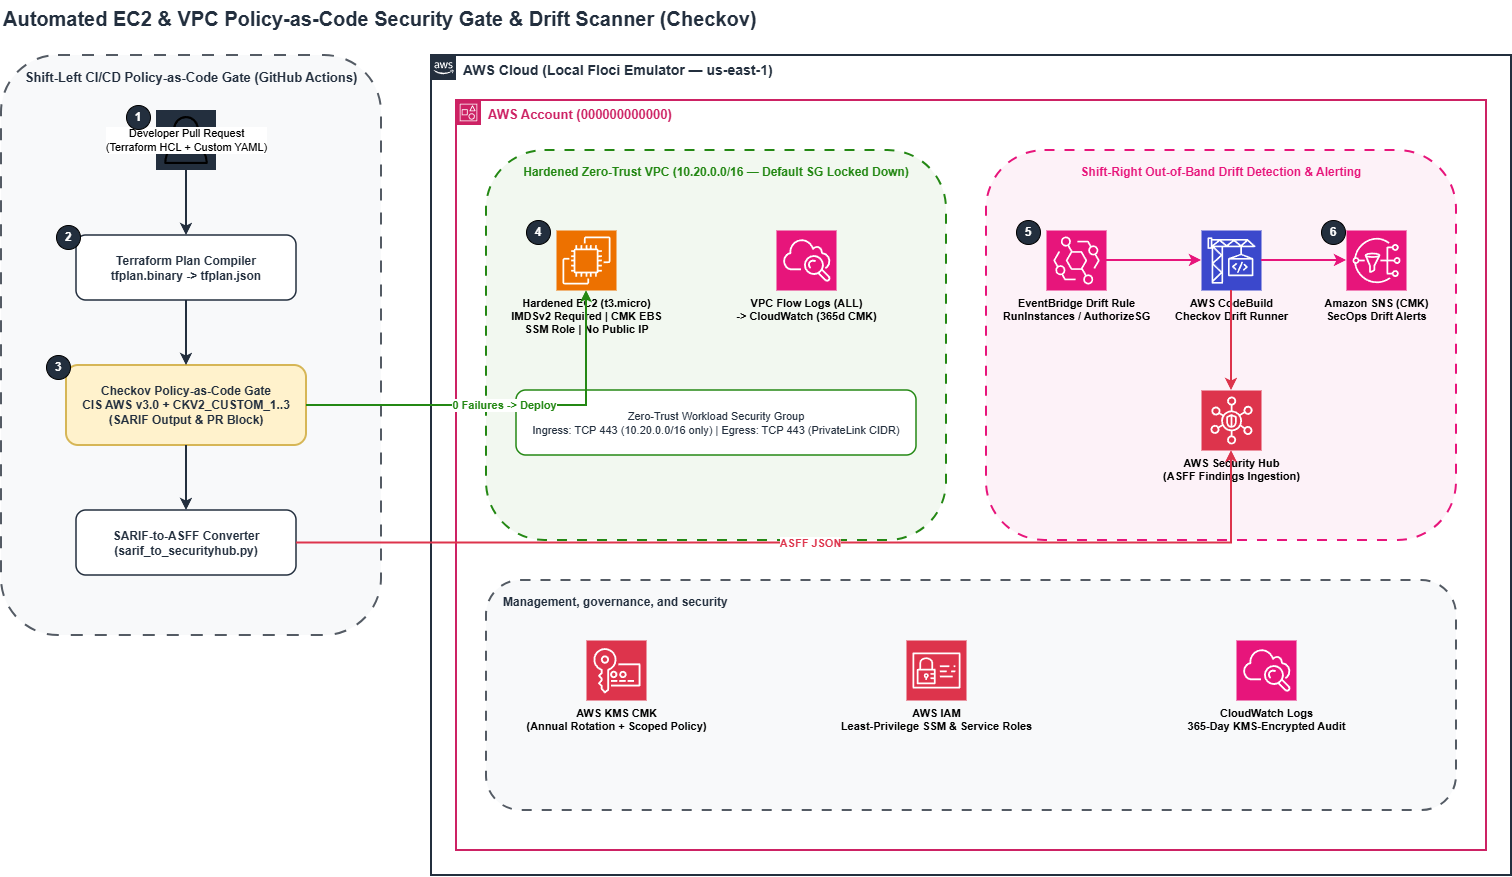
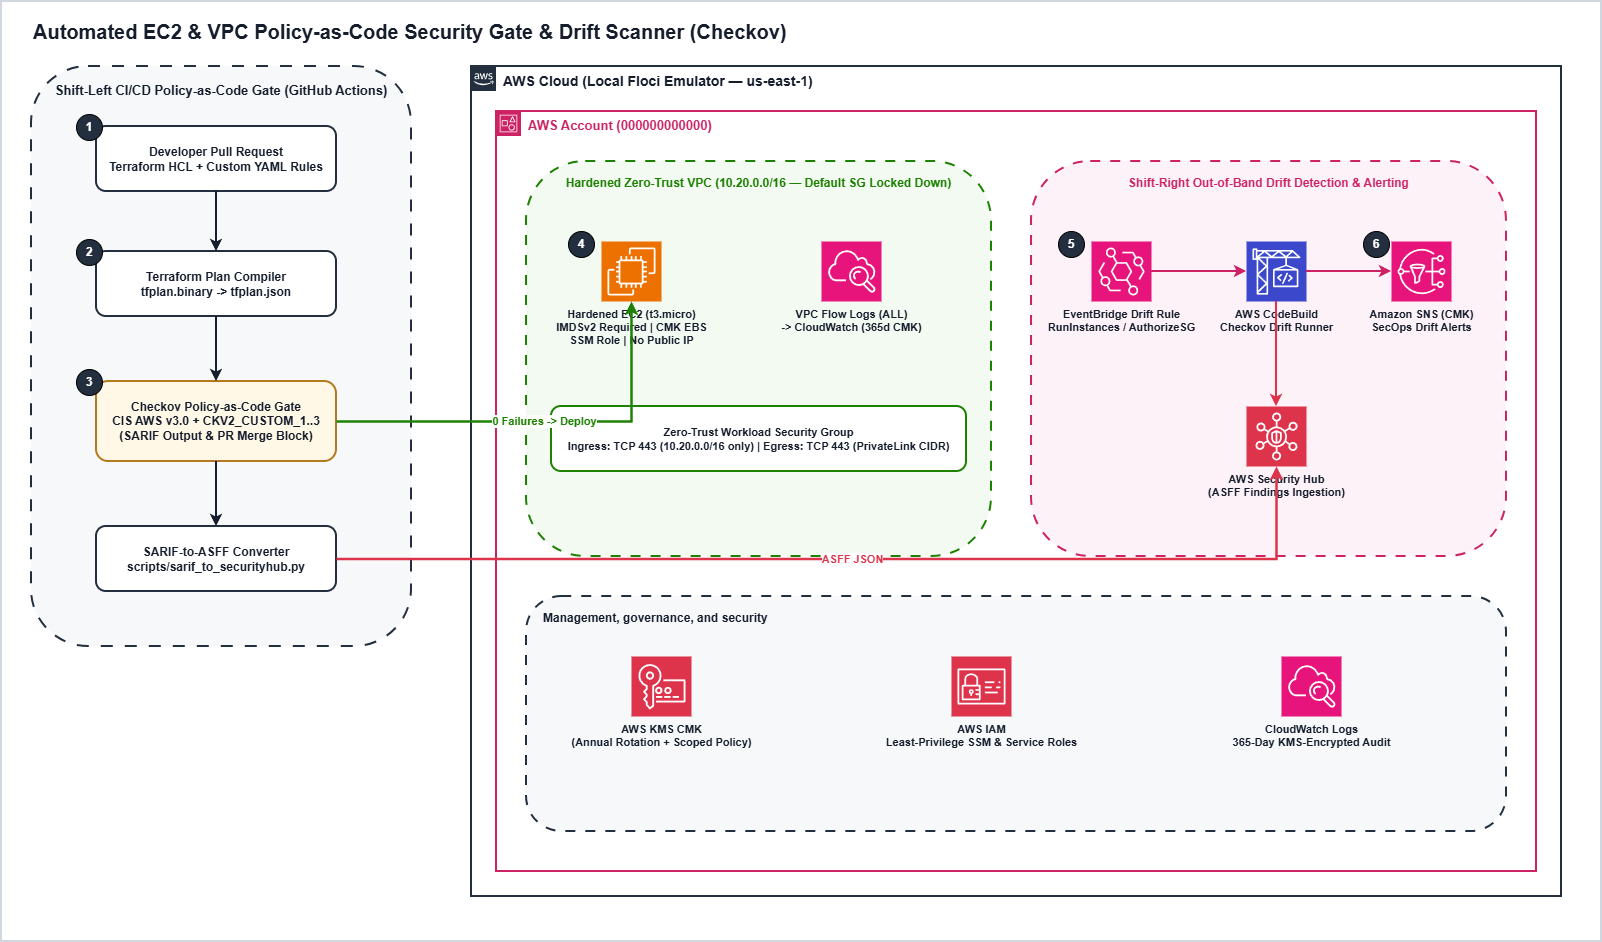
added lesson learned

diff --git a/README.md b/README.md
@@ -61,3 +61,23 @@ ec2-vpc-policy-gate/
 │   └── sarif_to_securityhub.py             # Converts Checkov SARIF to ASFF JSON & imports to Security Hub / SNS
 ├── architecture.png                        # Exported AWS reference architecture diagram
 └── README.md
+
+---
+
+## Troubleshooting
+
+1. **KMS Key Policy Flagged by Generic IAM Rules (`CKV_AWS_356`, `CKV_AWS_111`, `CKV_AWS_109`):** Split `kms.tf` into three least-privilege statements separated by key administration vs. cryptographic usage, adding `aws:PrincipalAccount`, `kms:ViaService`, `kms:CallerAccount`, and `kms:EncryptionContext` conditions.
+2. **CodeBuild Project Missing Audit Logging (`CKV_AWS_314`):** Provisioned a 365-day KMS-encrypted CloudWatch Log Group (`/aws/codebuild/checkov-drift-scanner-junlab`) in `observability.tf` and attached it to `logs_config`.
+3. **AWS CLI Empty Output Without `--endpoint-url`:** Explicitly passed `--endpoint-url=http://localhost:4566` on AWS CLI commands so older AWS CLI v2 builds route to Floci.
+4. **Checkov SARIF Filename (`results_sarif.sarif`):** Updated `scripts/sarif_to_securityhub.py` to default to `results_sarif.sarif`.
+5. **Ubuntu PEP 668 Python Isolation (`ModuleNotFoundError: boto3`):** Executed scripts explicitly using `/opt/secops-venv/bin/python`.
+6. **Floci Security Hub Ingestion API Parity (`UnknownOperationException: POST /findings/import`):** Persisted normalized ASFF findings to `asff_findings.json` and added an automatic SNS alerting fallback (`ec2-vpc-drift-alerts-junlab`).
+
+---
+
+## Lessons Learned
+
+* **Plan-Level Scanning (`tfplan.json`) Eliminates Static IaC Blind Spots:** Compiling `tfplan.binary` into `tfplan.json` resolves input variables, dynamic blocks, and `for_each` expansions before Checkov runs (`CSA CCC-04`)[cite: 2].
+* **Shift-Left and Shift-Right Controls Must Work Together:** GitHub Actions PR gates block bad IaC before merge, while EventBridge + CodeBuild drift scanning catches out-of-band console/CLI mutations (`NIST CM-3`, `SI-4`)[cite: 2].
+* **Strict Policy-as-Code Exposes Subtle Least-Privilege Gaps:** Enforcing zero Checkov failures guarantees default VPC security groups are locked down (`CKV2_AWS_12`), CloudWatch logs retain for 365 days (`CKV_AWS_338`), and KMS key policies use `kms:ViaService` conditions (`CKV_AWS_356`).
+* **Design Automation Scripts with Graceful Emulator Fallbacks:** Exporting `asff_findings.json` locally and falling back to KMS-encrypted SNS alerting keeps the pipeline portable between local Floci labs and production AWS[cite: 2].
